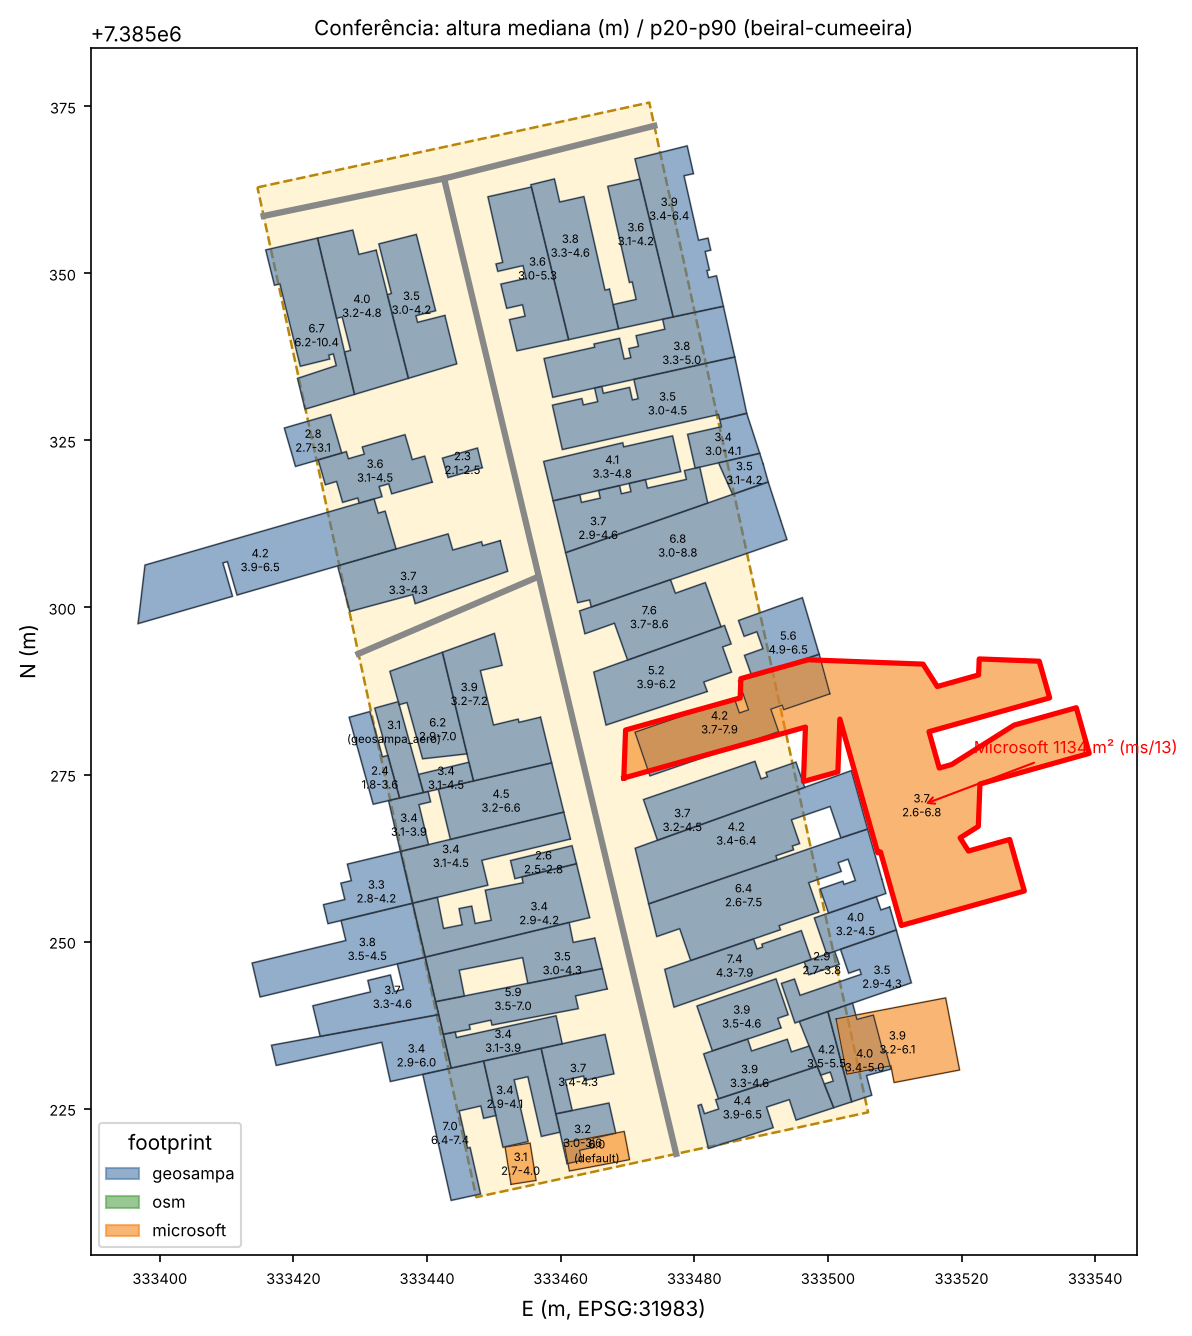
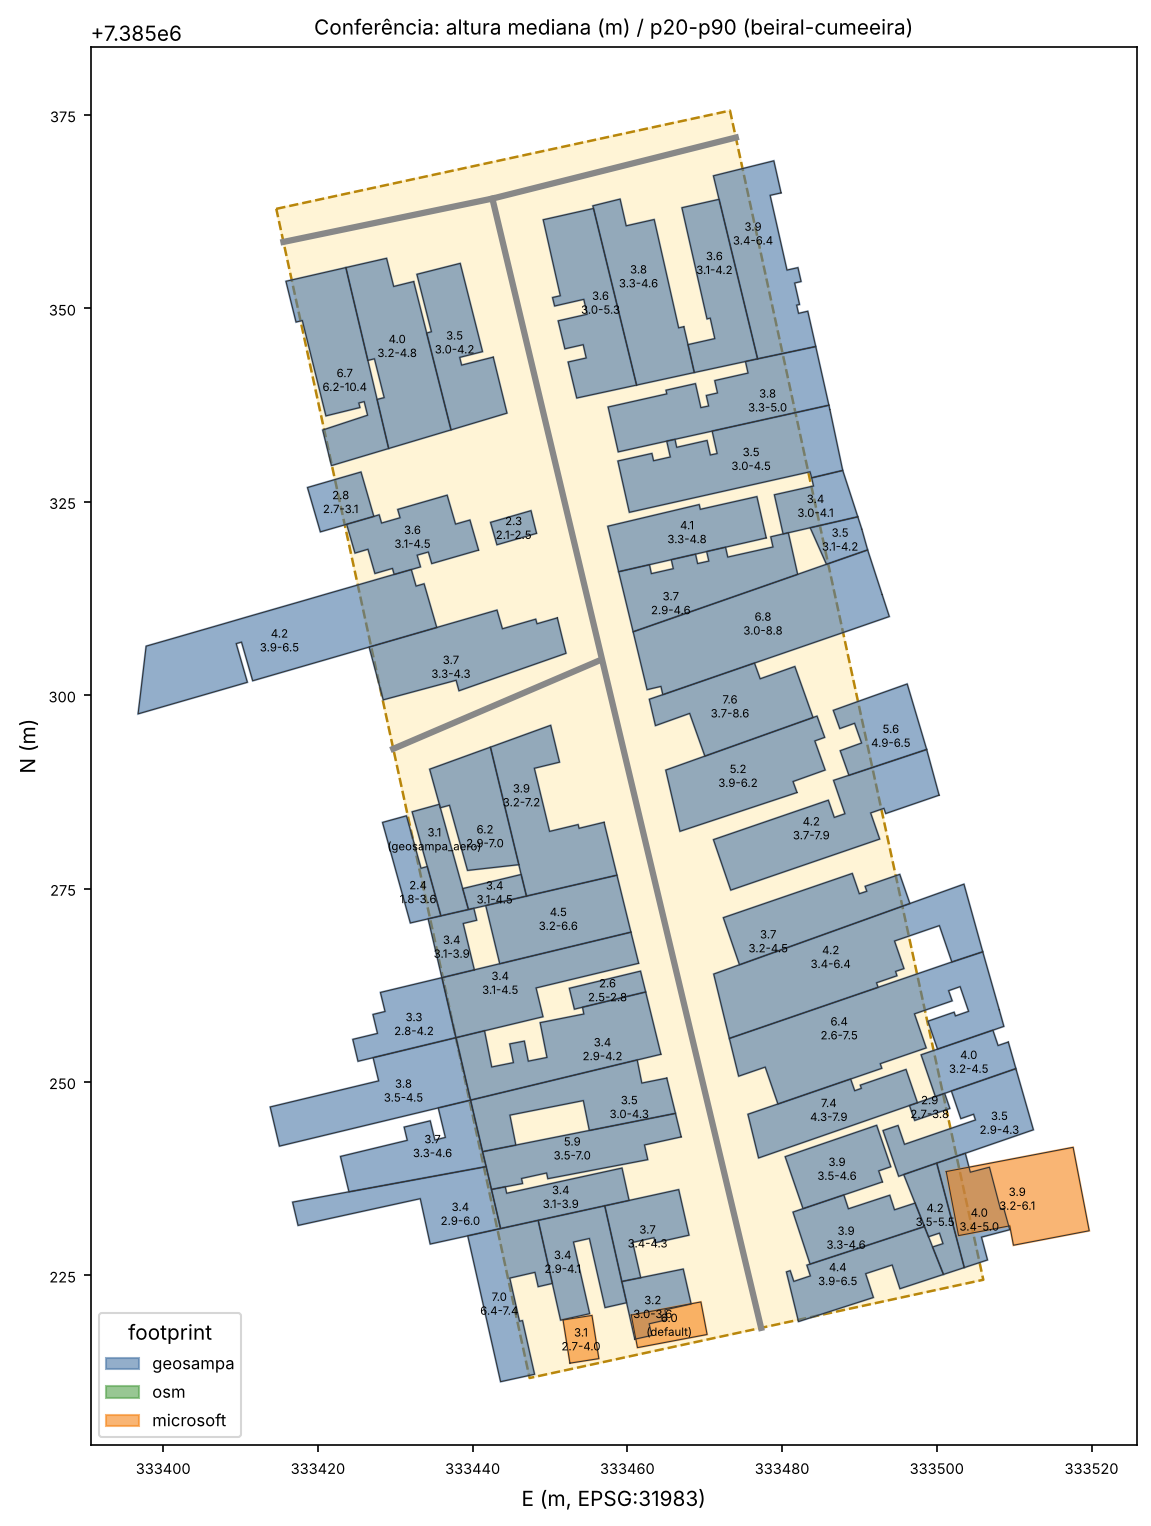
Exclui ms/13 por id e regenera dados
Lista EXCLUDE_IDS em fetch_data.py, registrada no CLAUDE.md.

Claude-Session: https://claude.ai/code/session_01RY3uJZssCyto6BURX9C38N

diff --git a/scripts/fetch_data.py b/scripts/fetch_data.py
@@ -28,6 +28,11 @@ TERRARIUM = "https://s3.amazonaws.com/elevation-tiles-prod/terrarium/{z}/{x}/{y}
 warnings.filterwarnings("ignore", category=DeprecationWarning)
 UA = {"User-Agent": "rua-3d/0.1"}
 
+# edificações descartadas por id (ver CLAUDE.md)
+EXCLUDE_IDS = {
+    "ms/13",  # Microsoft, 1.134 m², funde várias construções e fica quase todo fora da faixa
+}
+
 to_utm = Transformer.from_crs(4326, 31983, always_xy=True).transform
 to_wgs = Transformer.from_crs(31983, 4326, always_xy=True).transform
 
@@ -338,6 +343,9 @@ def main():
     from shapely.ops import unary_union
     kept, covered = [], None
     for c in cands:
+        if c[0] in EXCLUDE_IDS:
+            print(f"excluído: {c[0]}")
+            continue
         gu = transform(to_utm, c[2])
         if covered is not None and gu.intersection(covered).area > 0.3 * gu.area:
             continue

diff --git a/CLAUDE.md b/CLAUDE.md
@@ -26,6 +26,7 @@ src/                    app React (etapa 2: App.tsx, mapa MapLibre)
 - Altura: `heights_manual.csv` (opcional, id,pavimentos,altura_m) > LiDAR 2017 PMSP (LAZ em s3 laz-m3dc-pmsp, folhas via WFS `quadricula_folha_mds`, cache em `data_cache/`): mediana de MDS - MDT no footprint (`height`), p20 (`height_eave`) e p90 (`height_ridge`) > `qt_altura_edificacao` do GeoSampa > tiles OSM > 6 m. Origem em `height_source`
 - Terreno: AWS Terrain Tiles (Terrarium), z15 (~4,4 m/px nesta latitude)
 - Tiles não trazem width/lanes das vias (campos nulos)
+- Exclusões por id (`EXCLUDE_IDS` em fetch_data.py): `ms/13` (Microsoft, 1.134 m², funde várias construções, quase todo fora da faixa). IDs `ms/N` seguem a ordem do arquivo da Microsoft
 
 ## Etapas
 1. Dados: `pip install shapely pyproj numpy pillow requests mapbox-vector-tile 'laspy[lazrs]' scipy matplotlib && python scripts/fetch_data.py && python scripts/plot_check.py`
